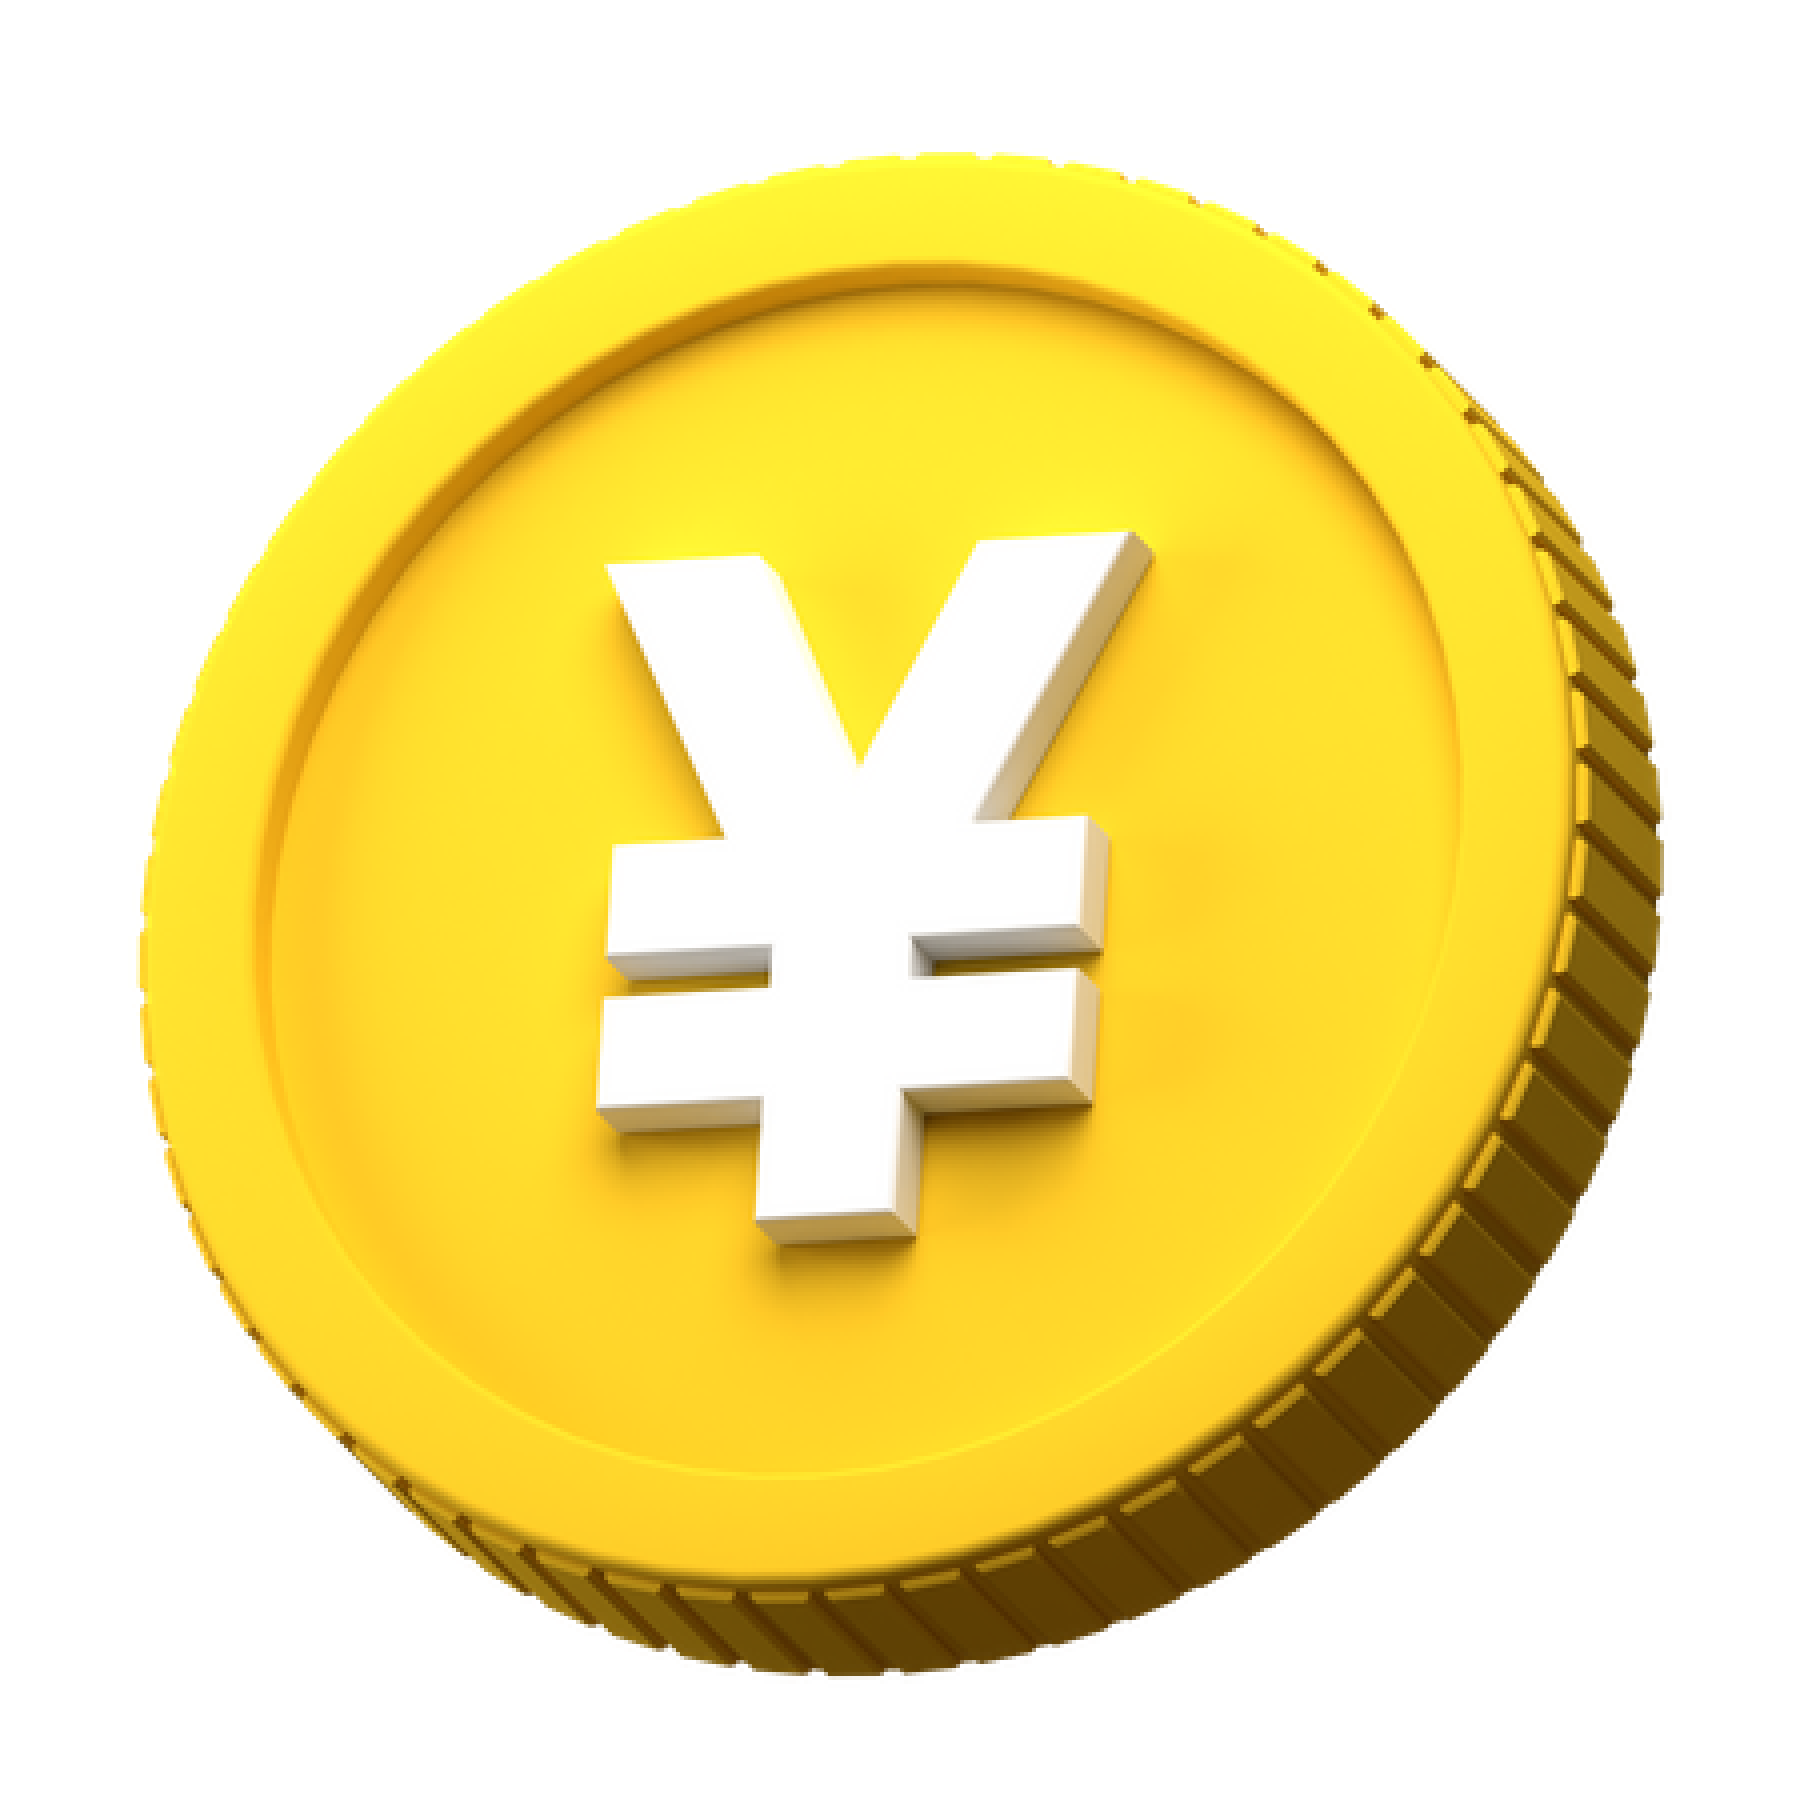
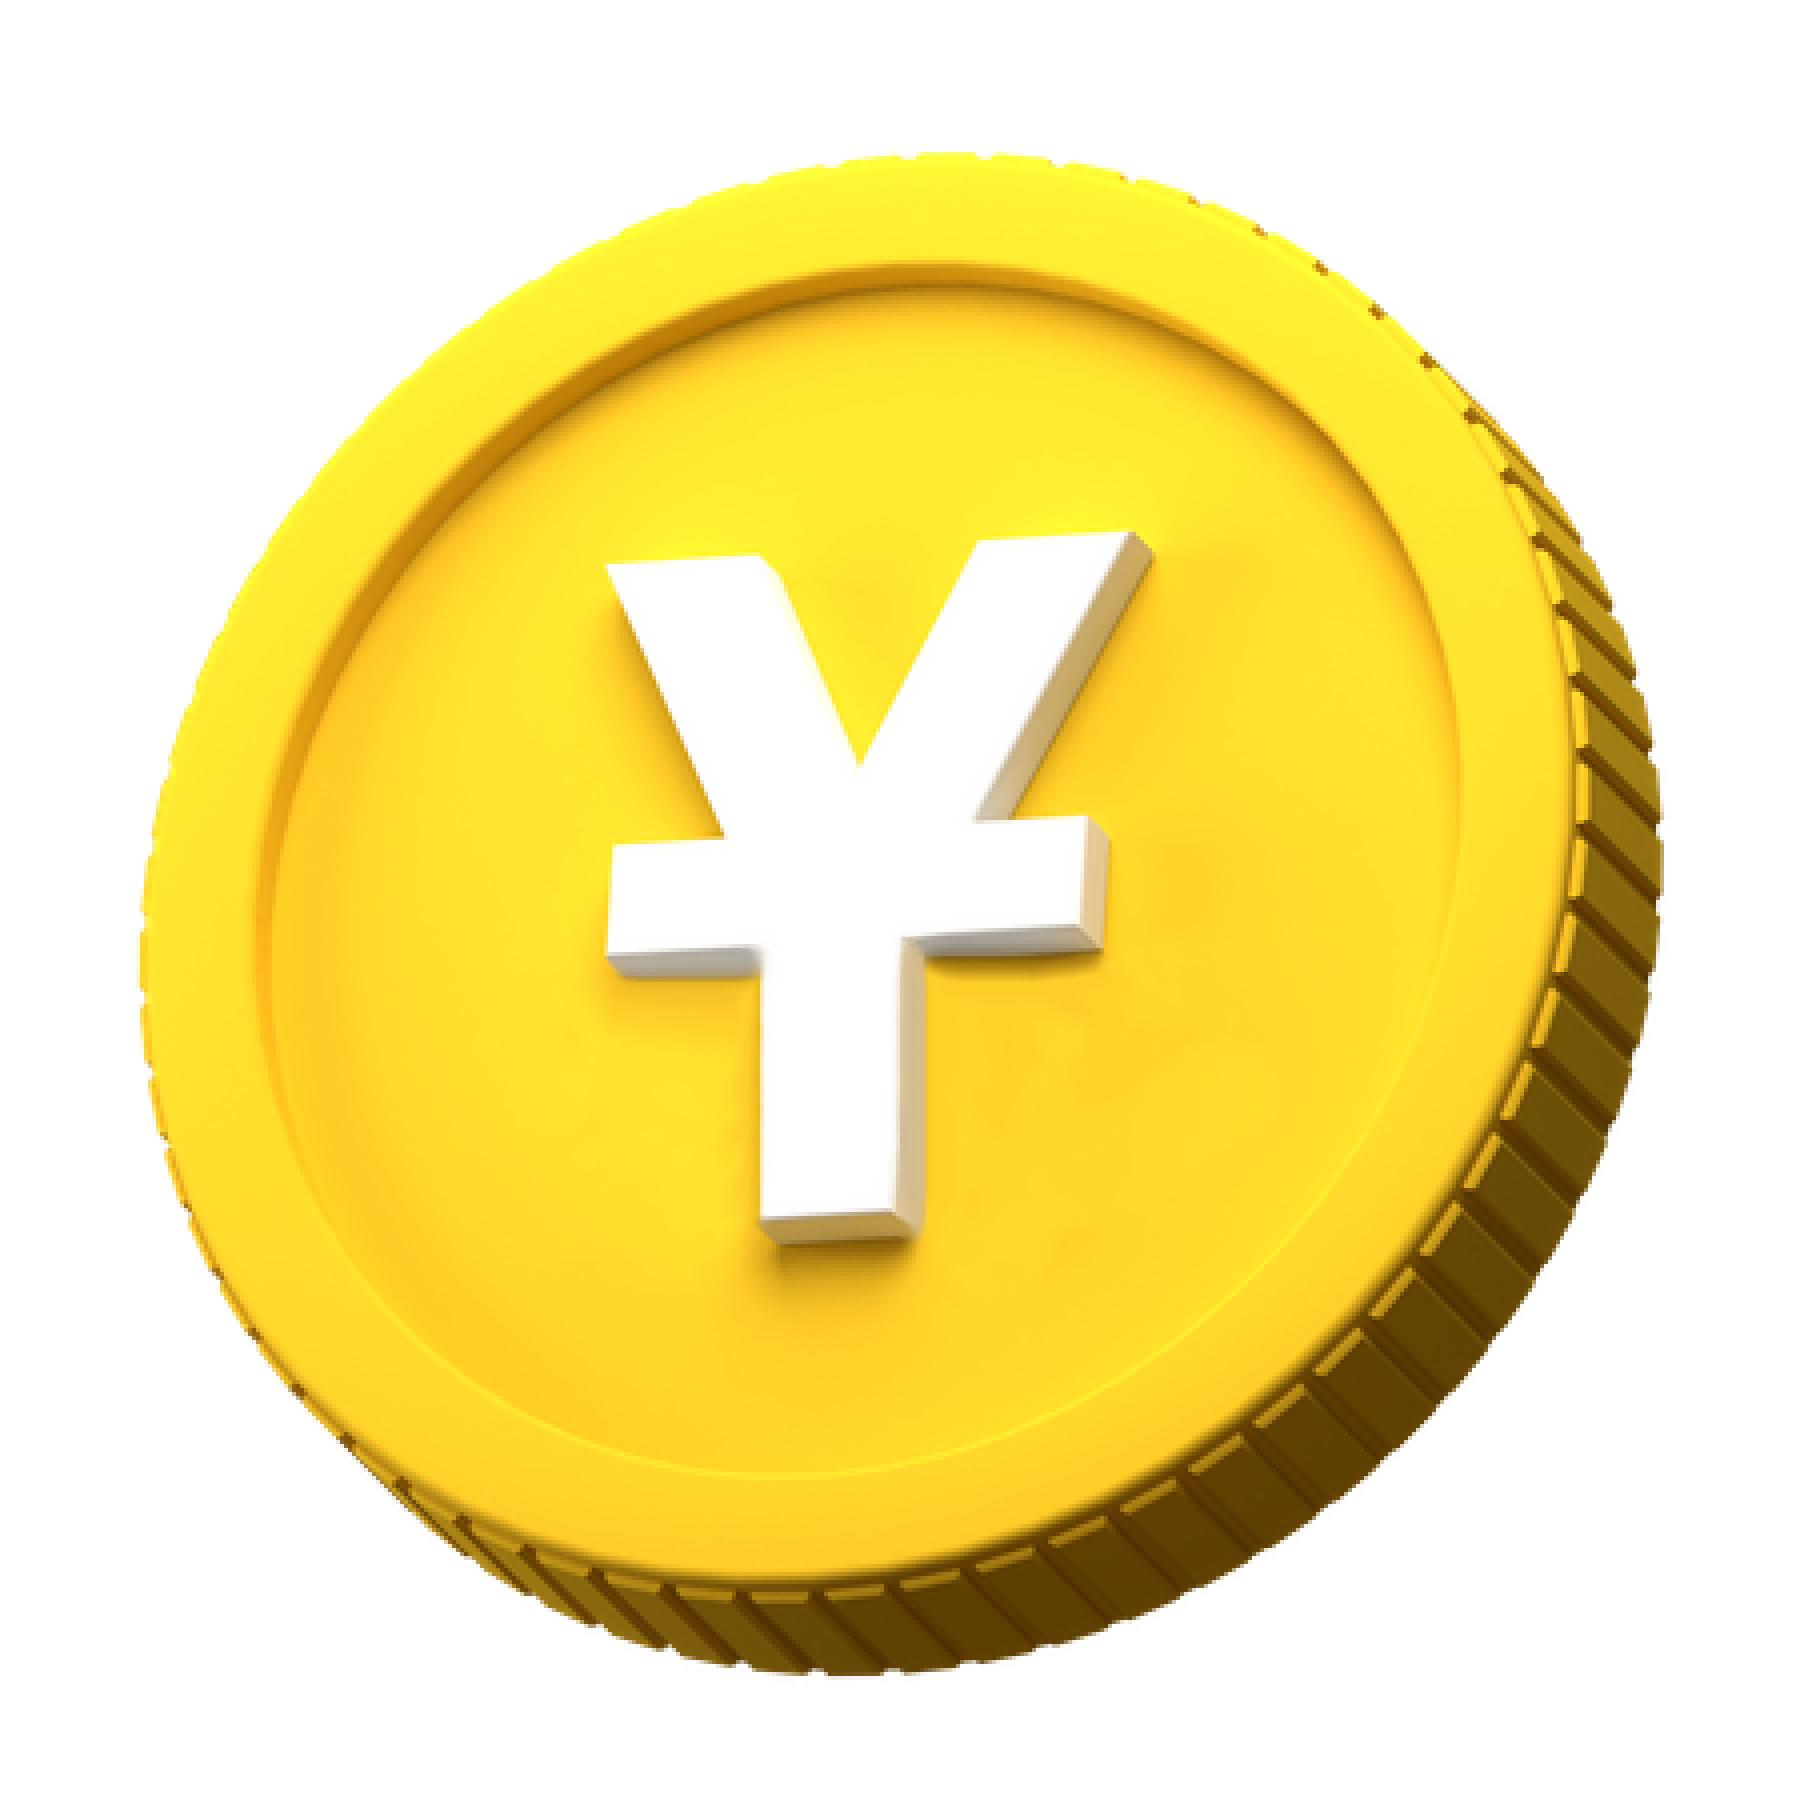
fixed yens and yuans

Changed region(s): [[0.4978, 0.4978, 0.6222, 0.6844], [0.3111, 0.5289, 0.4356, 0.6844]]

diff --git a/src/asset/image/index.ts b/src/asset/image/index.ts
@@ -13,6 +13,7 @@ const image = {
     dollarCoin: require("./dollar-coin.png"),
     euroCoin: require("./euro-coin.png"),
     poundCoin: require("./pound-coin.png"),
+    yenCoin: require("./yen-coin.png"),
     yuanCoin: require("./yuan-coin.png"),
 };
 export { image };

diff --git a/src/module/wallet/component/core/WalletCard/WalletCard.tsx b/src/module/wallet/component/core/WalletCard/WalletCard.tsx
@@ -26,7 +26,7 @@ const coinsMap: Record<FiatCurrencyType, string> = {
     usd: image.dollarCoin,
     eur: image.euroCoin,
     gbp: image.poundCoin,
-    jpy: image.yuanCoin,
+    jpy: image.yenCoin,
     cny: image.yuanCoin,
 };
 
